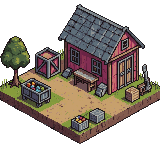
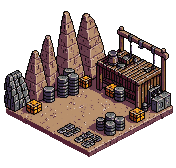
Continue PixelLab asset pass and rework building art direction toward detailed functional world sprites

diff --git a/src/data/buildingCatalog.js b/src/data/buildingCatalog.js
@@ -281,7 +281,7 @@ export const BUILDING_CATALOG = [
     flavor: 'A room where raw materials acquire handles and labor expectations.',
   }),
   core('salvage_yard', 'Salvage Yard', 'Production', 440, { w: 2, h: 2 }, 'Sorts raw loot into trade goods or recovered equipment.', {
-    assetKey: 'resource_old_ruins',
+    assetKey: 'building_salvage_camp',
     unlockKey: 'rank2',
     lockReason: 'Reach Recognized Settlement rank.',
     kind: 'mixed',

diff --git a/docs/PIXELLAB_GENERATION_REPORT.md b/docs/PIXELLAB_GENERATION_REPORT.md
@@ -138,3 +138,22 @@ multi-session effort. This report is the durable continuation point.
 - CONTINUATION STRATEGY: loop fire→long-wait→bulk-download across categories;
   expensive char/monster animations to drive budget toward 1372. Trackers in
   scratchpad gwg_inflight.tsv. Not stopping — throughput is slow, not blocked.
+
+### Art-direction reworks (2nd continuation — richer/functional per feedback)
+The newer simple/bright/icon-like buildings were reworked toward the older
+detailed, grounded, functional style (high detail + detailed shading + richer
+functional prompts). Integrated at canonical paths (overwrote the simple ones),
+verified loading in test-key browser (no errors, prod save untouched):
+- Premium Lodge 15c7cc11 — now a warm timber+stone guesthouse (dormers, porch,
+  balcony, glowing windows). Reads as premium lodging.
+- Sawmill a96dccd0 — now a real timber mill (water wheel, saw platform, plank/log
+  stacks, ramp). Reads as wood processing.
+- Inn 19376ef2 — detailed half-timbered 2.5-storey inn (dormers, sign, chimney
+  smoke, barrels, ivy). Reads as cozy lodging.
+- Salvage Yard a10dbeeb — gritty scrapyard (scrap piles, sorting workshop, crane,
+  forge). Reads as reclamation. Catalog salvage_yard also repointed to this art.
+- Balance: 1010 used / 989 remaining (target 1372). Building animation batches +
+  worker characters continuing.
+- Roads: still procedural+working in-world; iso surface tiles staged only. Safe
+  live swap needs seamless SQUARE road textures (renderer crops squares) or a
+  sprite autotiler — NOT done, honestly staged/deferred.